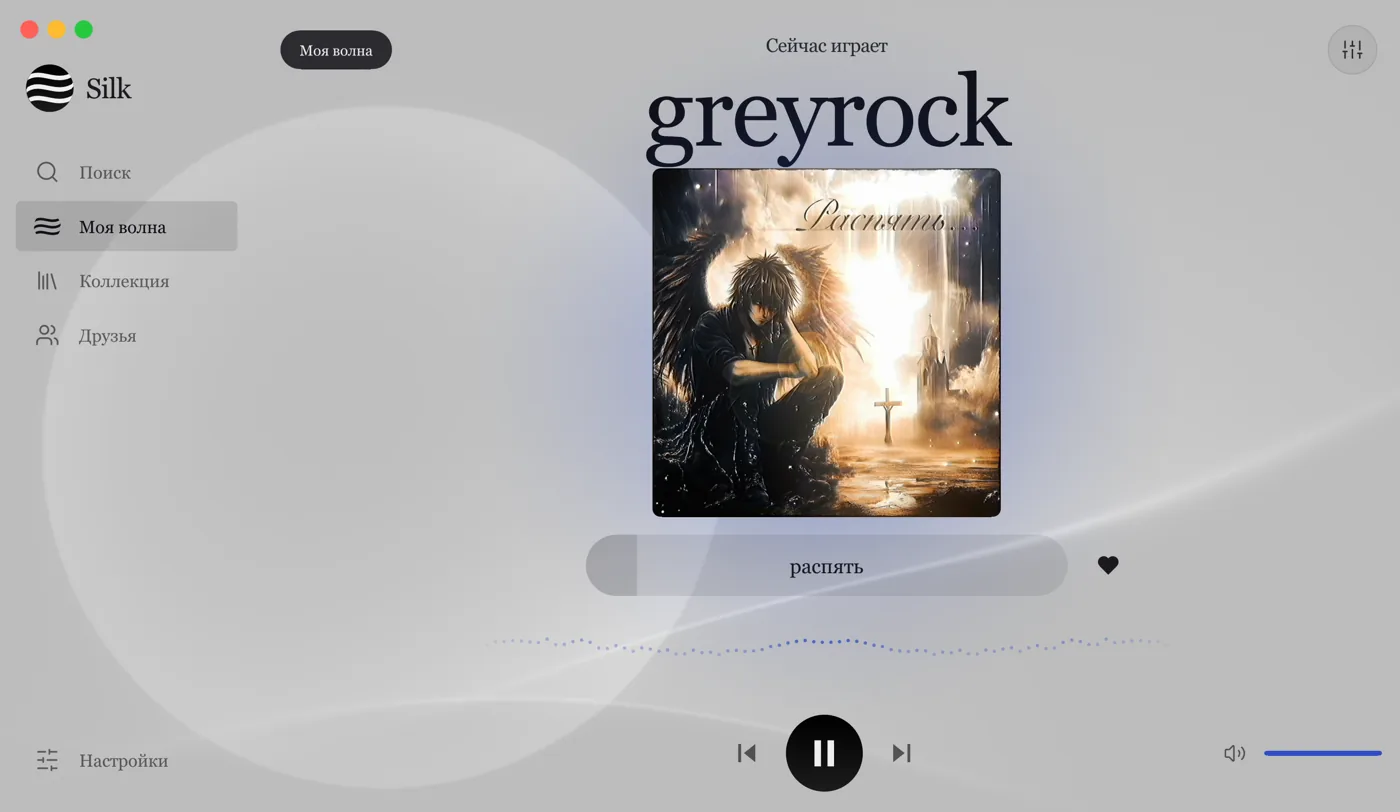
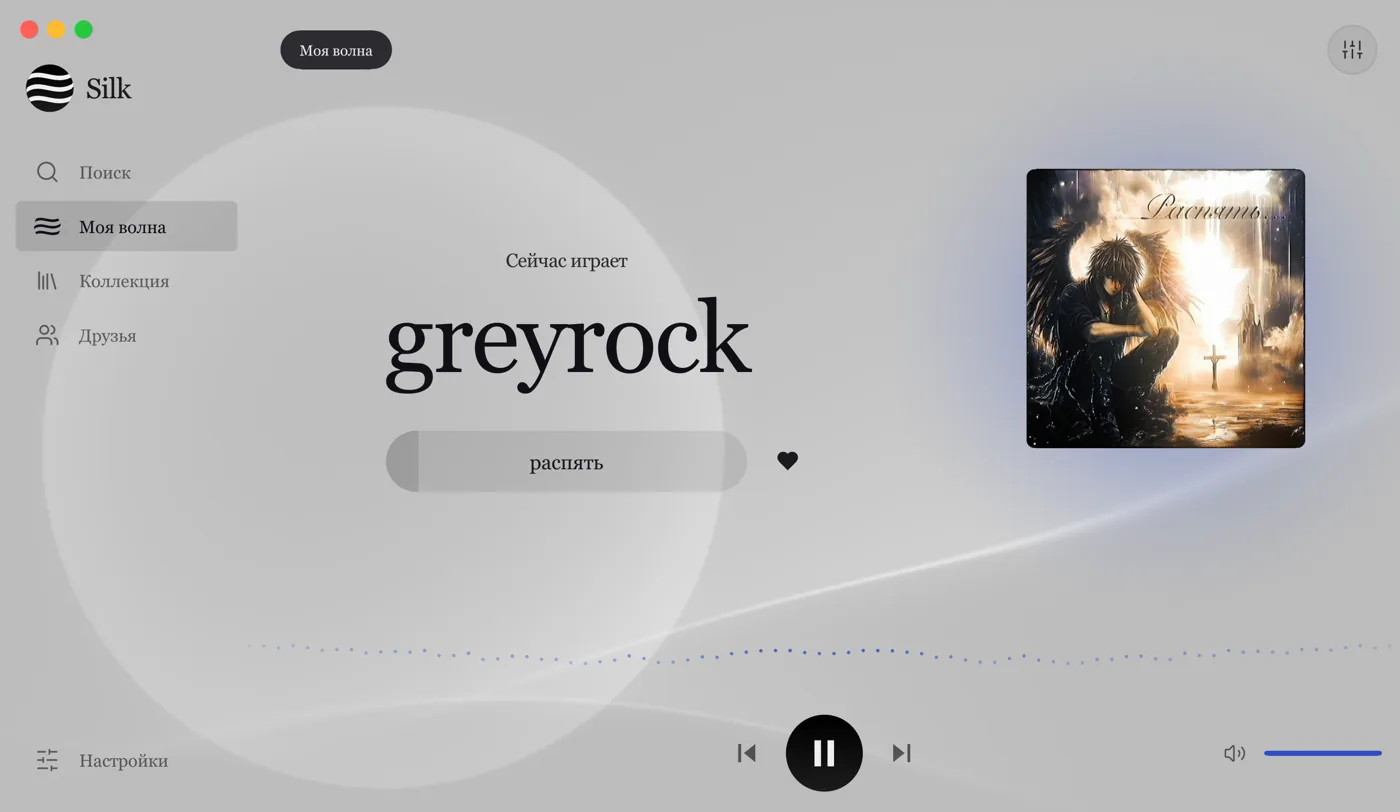
Сайт: карточка трека в профиле и новые раскладки стилей

diff --git a/index.html b/index.html
@@ -33,14 +33,14 @@
   <p class="fine">Бесплатно и без рекламы. Windows 10 и 11, 26 МБ</p>
 </div></section>
 <section class="screens" id="screens" aria-label="Как выглядит Silk"><div class="wrap">
-  <div class="window" id="shot" role="tabpanel"><img src="assets/shots/wave.webp" width="1400" height="812" alt="Silk: моя волна" class="on" data-cap="Моя волна учится на лайках и дослушанных треках и не крутит одно и то же. Её можно включить по одной площадке: только Яндекс, SoundCloud или VK." decoding="async"><img src="assets/shots/lyrics.webp" width="1400" height="812" alt="Silk: текст" class="" data-cap="Текст идёт вместе с песней и подсвечивается по словам. Размер строк меняется кнопками A− и A+." decoding="async"><img src="assets/shots/search.webp" width="1400" height="812" alt="Silk: поиск" class="" data-cap="Ищи везде сразу или на одной площадке. Не помнишь название? Напиши строчку из песни." decoding="async"><img src="assets/shots/sound.webp" width="1400" height="812" alt="Silk: звук" class="" data-cap="Slowed + reverb, Nightcore, 8D, караоке без голоса, кроссфейд и эквалайзер на 10 полос." decoding="async"><img src="assets/shots/style-paper.webp" width="1400" height="812" alt="Silk: стили" class="" data-cap="Семь готовых стилей, от неона до бумаги. А можно собрать свой: любую кнопку двигаешь и меняешь как хочешь." decoding="async"><img src="assets/shots/friends.webp" width="1400" height="812" alt="Silk: друзья" class="" data-cap="Профиль как в соцсетях: фото, обложка, пара слов о себе. Видно, что друг слушает прямо сейчас, а «Слушать вместе» включает тот же трек с того же места." decoding="async"></div>
+  <div class="window" id="shot" role="tabpanel"><img src="assets/shots/wave.webp" width="1400" height="812" alt="Silk: моя волна" class="on" data-cap="Моя волна учится на лайках и дослушанных треках и не крутит одно и то же. Её можно включить по одной площадке: только Яндекс, SoundCloud или VK." decoding="async"><img src="assets/shots/lyrics.webp" width="1400" height="812" alt="Silk: текст" class="" data-cap="Текст идёт вместе с песней и подсвечивается по словам. Размер строк меняется кнопками A− и A+." decoding="async"><img src="assets/shots/search.webp" width="1400" height="812" alt="Silk: поиск" class="" data-cap="Ищи везде сразу или на одной площадке. Не помнишь название? Напиши строчку из песни." decoding="async"><img src="assets/shots/sound.webp" width="1400" height="812" alt="Silk: звук" class="" data-cap="Slowed + reverb, Nightcore, 8D, караоке без голоса, кроссфейд и эквалайзер на 10 полос." decoding="async"><img src="assets/shots/style-paper.webp" width="1400" height="812" alt="Silk: стили" class="" data-cap="Семь готовых раскладок: обложка справа, во весь рост или вовсе на обоях. А можно собрать свою: любую кнопку двигаешь и меняешь как хочешь." decoding="async"><img src="assets/shots/friends.webp" width="1400" height="812" alt="Silk: друзья" class="" data-cap="Профиль как в соцсетях: фото, обложка, пара слов о себе и что играет прямо сейчас. Нажми на трек друга, и у тебя заиграет он же с того же места." decoding="async"></div>
   <div class="tabs" role="tablist" aria-label="Экраны Silk"><button role="tab" aria-selected="true" aria-controls="shot" data-i="0">Моя волна</button><button role="tab" aria-selected="false" aria-controls="shot" data-i="1" tabindex="-1">Текст</button><button role="tab" aria-selected="false" aria-controls="shot" data-i="2" tabindex="-1">Поиск</button><button role="tab" aria-selected="false" aria-controls="shot" data-i="3" tabindex="-1">Звук</button><button role="tab" aria-selected="false" aria-controls="shot" data-i="4" tabindex="-1">Стили</button><button role="tab" aria-selected="false" aria-controls="shot" data-i="5" tabindex="-1">Друзья</button></div>
   <p class="caption" id="cap" aria-live="polite">Моя волна учится на лайках и дослушанных треках и не крутит одно и то же. Её можно включить по одной площадке: только Яндекс, SoundCloud или VK.</p>
 </div></section>
 <section class="section" id="features"><div class="wrap">
   <h2>Что умеет Silk</h2>
   <p class="sub">Всё уже внутри: ничего не нужно докачивать и настраивать.</p>
-  <div class="grid"><article class="feat"><div class="mini"><div class="chips"><span class="chip on">Все площадки</span><span class="chip">Яндекс</span><span class="chip">SoundCloud</span></div><svg class="wave" viewBox="0 0 280 40" aria-hidden="true"><path d="M0 20 C 20 4, 40 4, 60 20 S 100 36, 120 20 S 160 4, 180 20 S 220 36, 240 20 S 270 8, 280 14"/><path d="M0 26 C 25 14, 45 14, 70 26 S 115 38, 140 26 S 185 14, 210 26 S 255 38, 280 26"/></svg></div><h3>Своя волна</h3><p>Подбирает треки по лайкам и любимым исполнителям. Можно слушать волну всех площадок сразу или одной.</p></article><article class="feat"><div class="mini"><div class="field"><svg viewBox="0 0 24 24" aria-hidden="true"><circle cx="11" cy="11" r="7"/><path d="m20 20-3.5-3.5"/></svg><span>если тихо, сделай гр</span><span class="caret"></span></div><div class="row"><span class="cover"></span><span class="bars"><i></i><i></i></span></div></div><h3>Найдёт по строчке</h3><p>Не помнишь название? Напиши пару слов из песни, и Silk найдёт трек.</p></article><article class="feat"><div class="mini"><div class="friend live"><span class="ava a">Д<span class="dot"></span></span><span><b>Даня</b><span>Слушает: gladiator</span></span><span class="btn-mini">Слушать вместе</span></div><div class="friend"><span class="ava b">Л</span><span><b>Лена</b><span>Лайкнула 3 трека</span></span></div></div><h3>Друзья</h3><p>Видно, что друг слушает сейчас, его лайки и историю. Плейлисты можно собирать вместе.</p></article><article class="feat"><div class="mini"><div class="eq" aria-hidden="true"><span style="--v:62%"></span><span style="--v:70%"></span><span style="--v:58%"></span><span style="--v:46%"></span><span style="--v:40%"></span><span style="--v:44%"></span><span style="--v:52%"></span><span style="--v:60%"></span><span style="--v:66%"></span><span style="--v:72%"></span></div></div><h3>Звук под настроение</h3><p>Эквалайзер на 10 полос и 16 готовых настроек, Slowed + reverb, Nightcore, 8D и караоке без голоса.</p></article><article class="feat"><div class="mini"><div class="edit"><span class="tag">Кнопка «Играть»</span><span class="play"></span><span class="grip"></span></div></div><h3>Интерфейс как хочешь</h3><p>Двигай и меняй размер любой кнопки, как раскладку в шутере. Или возьми один из 7 готовых стилей.</p></article><article class="feat"><div class="mini"><div class="lyr" aria-hidden="true"><div>Ты в наушниках, и это лето</div><div class="now"><em>Если тихо, сделай</em> громче</div><div>Пусть играет до рассвета</div></div></div><h3>Текст по словам</h3><p>Строчки подсвечиваются вместе с голосом. Текст можно сделать крупнее или мельче.</p></article><article class="feat"><div class="mini"><div class="link"><svg viewBox="0 0 24 24" aria-hidden="true"><path d="M10 13a5 5 0 0 0 7.07 0l3-3a5 5 0 0 0-7.07-7.07l-1 1"/><path d="M14 11a5 5 0 0 0-7.07 0l-3 3a5 5 0 0 0 7.07 7.07l1-1"/></svg><span>open.spotify.com/playlist/37i9dQ…</span></div><div class="got"><b>+ 48 треков</b> в коллекции</div></div><h3>Перенос по ссылке</h3><p>Вставь ссылку на плейлист из Spotify, Яндекс Музыки, SoundCloud, YouTube, Apple Music, Звука или VK.</p></article><article class="feat"><div class="mini"><div class="files"><div class="file"><span class="ext">MP3</span><span class="track"><i style="width:100%"></i></span></div><div class="file"><span class="ext">FLAC</span><span class="track"><i style="width:100%"></i></span></div><div class="file"><span class="ext">M4A</span><span class="track"><i style="width:58%"></i></span></div></div></div><h3>Без интернета</h3><p>Скачивай треки обычными файлами и слушай свою папку с mp3 и flac, даже без сети.</p></article><article class="feat"><div class="mini"><div class="hours" aria-hidden="true"><i style="--h:8%"></i><i style="--h:5%"></i><i style="--h:4%"></i><i style="--h:3%"></i><i style="--h:3%"></i><i style="--h:6%"></i><i style="--h:10%"></i><i style="--h:18%"></i><i style="--h:22%"></i><i style="--h:16%"></i><i style="--h:14%"></i><i style="--h:20%"></i><i style="--h:24%"></i><i style="--h:18%"></i><i style="--h:16%"></i><i style="--h:22%"></i><i style="--h:30%"></i><i style="--h:36%"></i><i style="--h:44%"></i><i style="--h:58%"></i><i style="--h:70%"></i><i style="--h:92%" class="peak"></i><i style="--h:64%"></i><i style="--h:30%"></i></div><div class="streak">Серия: <b>12 дней</b> подряд</div></div><h3>Итоги</h3><p>Сколько ты слушаешь, серия дней подряд, любимое время и топ исполнителей.</p></article></div>
+  <div class="grid"><article class="feat"><div class="mini"><div class="chips"><span class="chip on">Все площадки</span><span class="chip">Яндекс</span><span class="chip">SoundCloud</span></div><svg class="wave" viewBox="0 0 280 40" aria-hidden="true"><path d="M0 20 C 20 4, 40 4, 60 20 S 100 36, 120 20 S 160 4, 180 20 S 220 36, 240 20 S 270 8, 280 14"/><path d="M0 26 C 25 14, 45 14, 70 26 S 115 38, 140 26 S 185 14, 210 26 S 255 38, 280 26"/></svg></div><h3>Своя волна</h3><p>Подбирает треки по лайкам и любимым исполнителям. Можно слушать волну всех площадок сразу или одной.</p></article><article class="feat"><div class="mini"><div class="field"><svg viewBox="0 0 24 24" aria-hidden="true"><circle cx="11" cy="11" r="7"/><path d="m20 20-3.5-3.5"/></svg><span>если тихо, сделай гр</span><span class="caret"></span></div><div class="row"><span class="cover"></span><span class="bars"><i></i><i></i></span></div></div><h3>Найдёт по строчке</h3><p>Не помнишь название? Напиши пару слов из песни, и Silk найдёт трек.</p></article><article class="feat"><div class="mini"><div class="friend live"><span class="ava a">Д<span class="dot"></span></span><span><b>Даня</b><span>Слушает: gladiator</span></span><span class="btn-mini">Слушать вместе</span></div><div class="friend"><span class="ava b">Л</span><span><b>Лена</b><span>Лайкнула 3 трека</span></span></div></div><h3>Друзья</h3><p>Видно, что друг слушает сейчас, его лайки и историю. Плейлисты можно собирать вместе.</p></article><article class="feat"><div class="mini"><div class="eq" aria-hidden="true"><span style="--v:62%"></span><span style="--v:70%"></span><span style="--v:58%"></span><span style="--v:46%"></span><span style="--v:40%"></span><span style="--v:44%"></span><span style="--v:52%"></span><span style="--v:60%"></span><span style="--v:66%"></span><span style="--v:72%"></span></div></div><h3>Звук под настроение</h3><p>Эквалайзер на 10 полос и 16 готовых настроек, Slowed + reverb, Nightcore, 8D и караоке без голоса.</p></article><article class="feat"><div class="mini"><div class="edit"><span class="tag">Кнопка «Играть»</span><span class="play"></span><span class="grip"></span></div></div><h3>Интерфейс как хочешь</h3><p>Двигай и меняй размер любой кнопки, как раскладку в шутере. Или возьми одну из 7 готовых раскладок.</p></article><article class="feat"><div class="mini"><div class="lyr" aria-hidden="true"><div>Ты в наушниках, и это лето</div><div class="now"><em>Если тихо, сделай</em> громче</div><div>Пусть играет до рассвета</div></div></div><h3>Текст по словам</h3><p>Строчки подсвечиваются вместе с голосом. Текст можно сделать крупнее или мельче.</p></article><article class="feat"><div class="mini"><div class="link"><svg viewBox="0 0 24 24" aria-hidden="true"><path d="M10 13a5 5 0 0 0 7.07 0l3-3a5 5 0 0 0-7.07-7.07l-1 1"/><path d="M14 11a5 5 0 0 0-7.07 0l-3 3a5 5 0 0 0 7.07 7.07l1-1"/></svg><span>open.spotify.com/playlist/37i9dQ…</span></div><div class="got"><b>+ 48 треков</b> в коллекции</div></div><h3>Перенос по ссылке</h3><p>Вставь ссылку на плейлист из Spotify, Яндекс Музыки, SoundCloud, YouTube, Apple Music, Звука или VK.</p></article><article class="feat"><div class="mini"><div class="files"><div class="file"><span class="ext">MP3</span><span class="track"><i style="width:100%"></i></span></div><div class="file"><span class="ext">FLAC</span><span class="track"><i style="width:100%"></i></span></div><div class="file"><span class="ext">M4A</span><span class="track"><i style="width:58%"></i></span></div></div></div><h3>Без интернета</h3><p>Скачивай треки обычными файлами и слушай свою папку с mp3 и flac, даже без сети.</p></article><article class="feat"><div class="mini"><div class="hours" aria-hidden="true"><i style="--h:8%"></i><i style="--h:5%"></i><i style="--h:4%"></i><i style="--h:3%"></i><i style="--h:3%"></i><i style="--h:6%"></i><i style="--h:10%"></i><i style="--h:18%"></i><i style="--h:22%"></i><i style="--h:16%"></i><i style="--h:14%"></i><i style="--h:20%"></i><i style="--h:24%"></i><i style="--h:18%"></i><i style="--h:16%"></i><i style="--h:22%"></i><i style="--h:30%"></i><i style="--h:36%"></i><i style="--h:44%"></i><i style="--h:58%"></i><i style="--h:70%"></i><i style="--h:92%" class="peak"></i><i style="--h:64%"></i><i style="--h:30%"></i></div><div class="streak">Серия: <b>12 дней</b> подряд</div></div><h3>Итоги</h3><p>Сколько ты слушаешь, серия дней подряд, любимое время и топ исполнителей.</p></article></div>
 </div></section>
 <section class="section" id="faq"><div class="wrap">
   <h2>Вопросы</h2>
